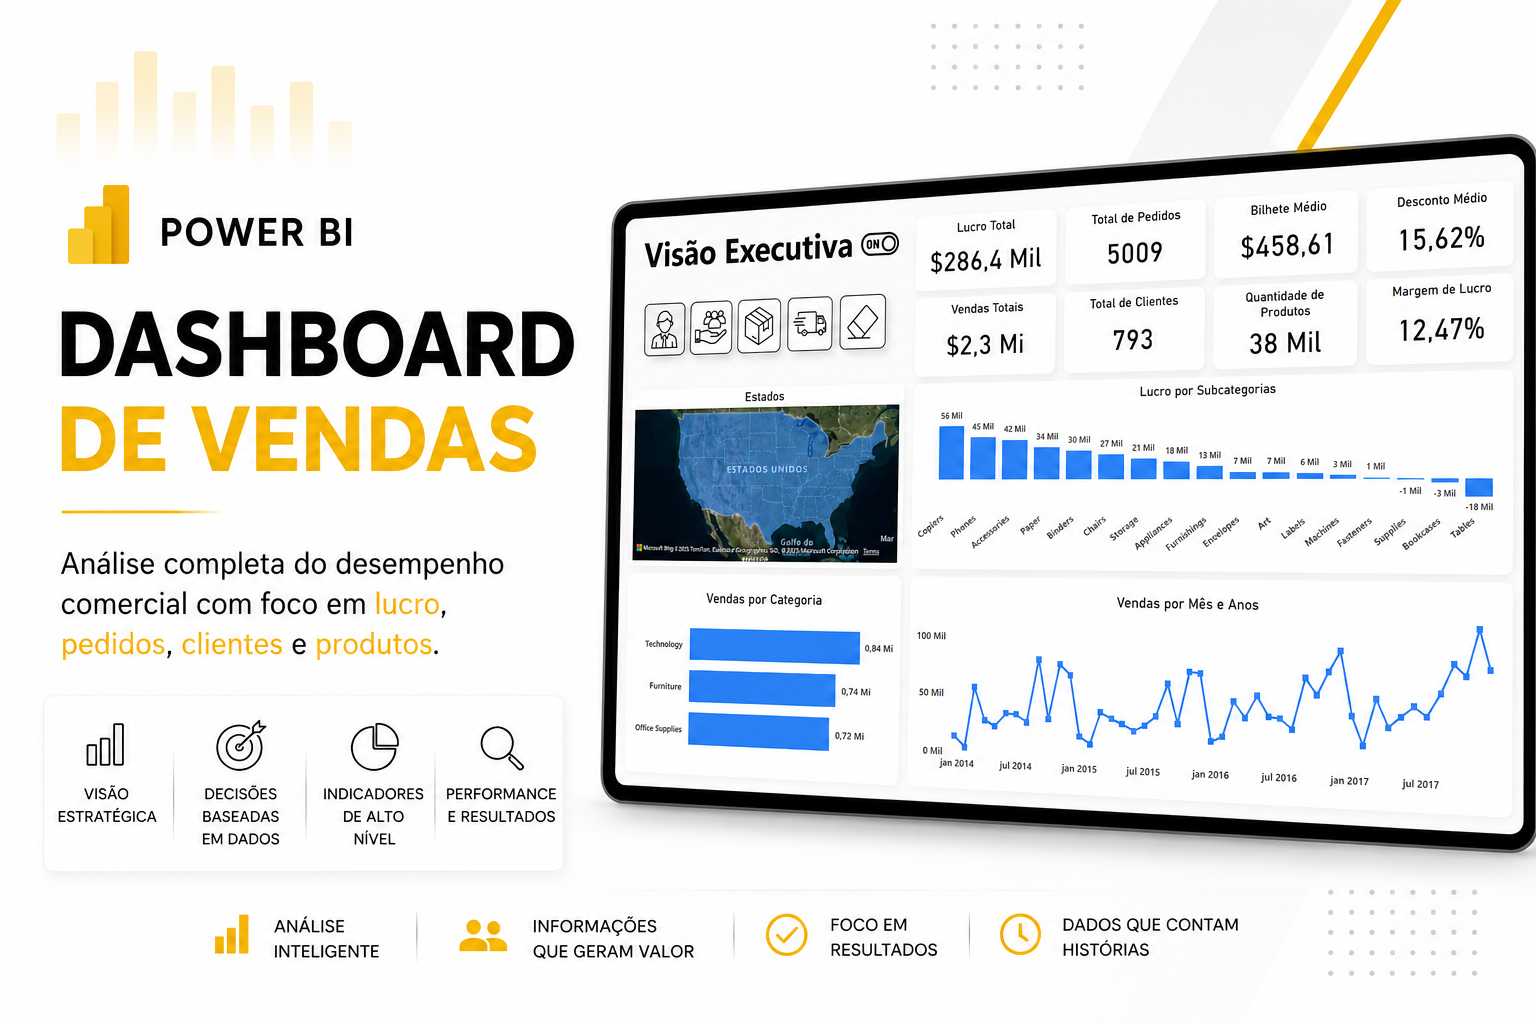
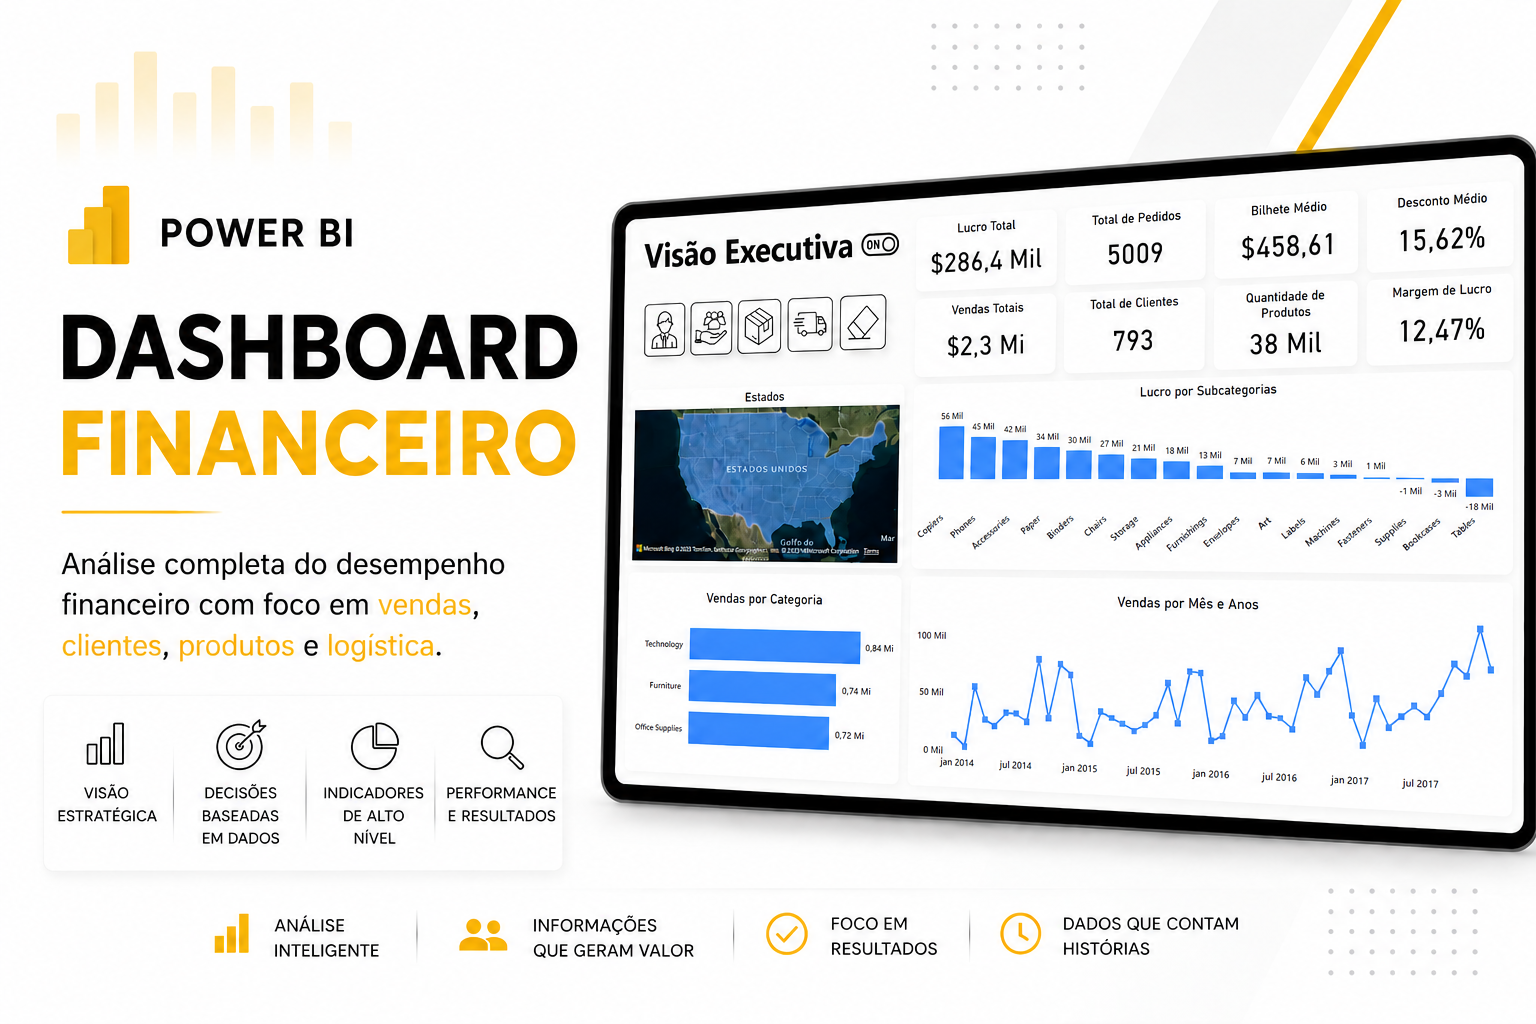
feature

diff --git a/index.html b/index.html
@@ -59,7 +59,7 @@
 <section class="posts">
 								<article>
 									<header>
-										<h2><a href="https://app.powerbi.com/view?r=eyJrIjoiNWM5NDQ5YmQtNDFjMS00YjAxLTlhOWUtODZiZjAzOTI2MDdlIiwidCI6IjkzOWVlYWUwLTA4ZjctNDk3MC1hMmM1LThhZjIyOWNmYzhjOSJ9&pageName=0f6f95bc4b2a2f4c784c" target="_blank" >Dashboard de vendas<br/>
+										<h2><a href="https://app.powerbi.com/view?r=eyJrIjoiNWM5NDQ5YmQtNDFjMS00YjAxLTlhOWUtODZiZjAzOTI2MDdlIiwidCI6IjkzOWVlYWUwLTA4ZjctNDk3MC1hMmM1LThhZjIyOWNmYzhjOSJ9&pageName=0f6f95bc4b2a2f4c784c" target="_blank" >Dashboard ficanceiro<br/>
 										</a></h2>
 									</header>
 									<a href="https://app.powerbi.com/view?r=eyJrIjoiNWM5NDQ5YmQtNDFjMS00YjAxLTlhOWUtODZiZjAzOTI2MDdlIiwidCI6IjkzOWVlYWUwLTA4ZjctNDk3MC1hMmM1LThhZjIyOWNmYzhjOSJ9&pageName=0f6f95bc4b2a2f4c784c" target="_blank" class="image fit"><img src="images/Capa Dashboard.png" alt="" /></a>